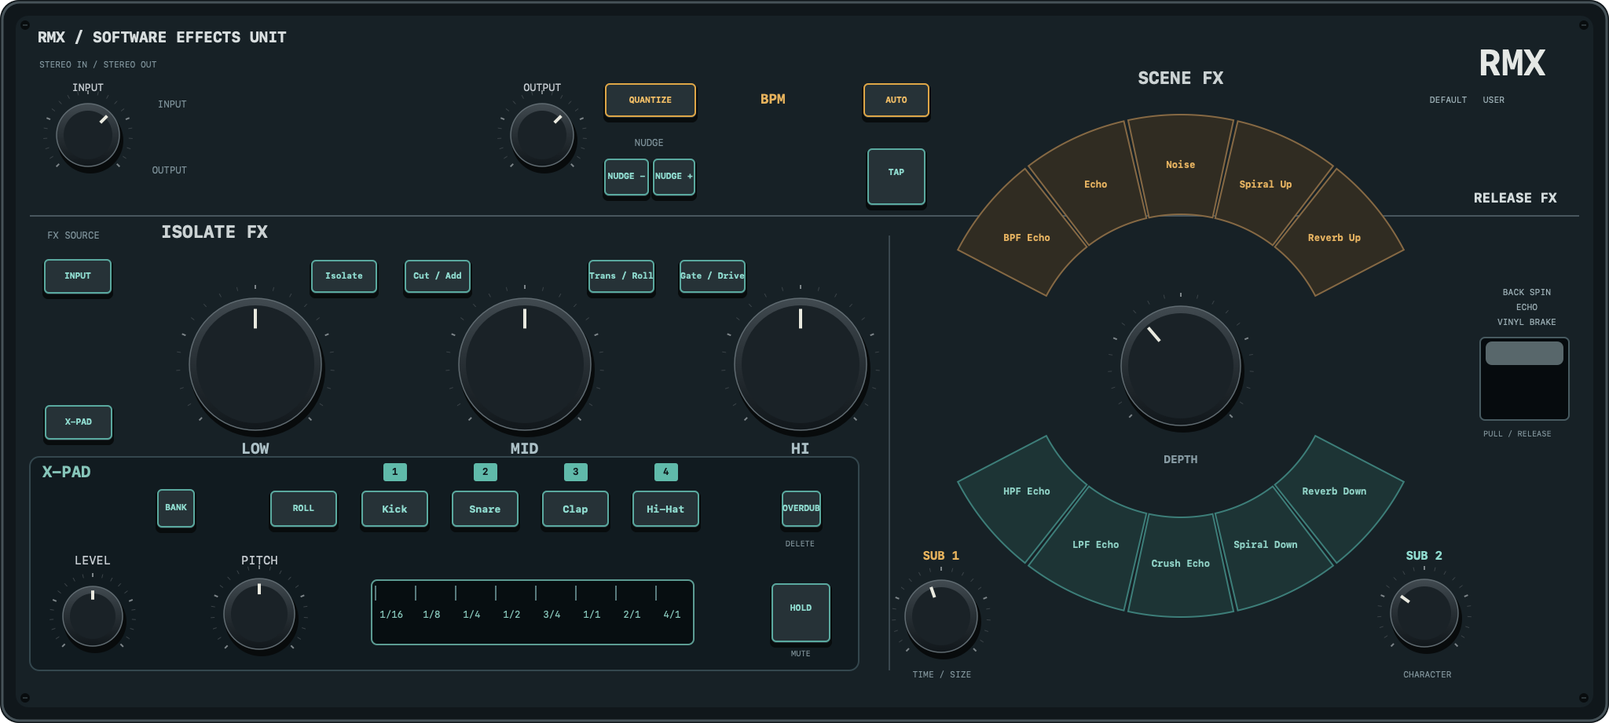
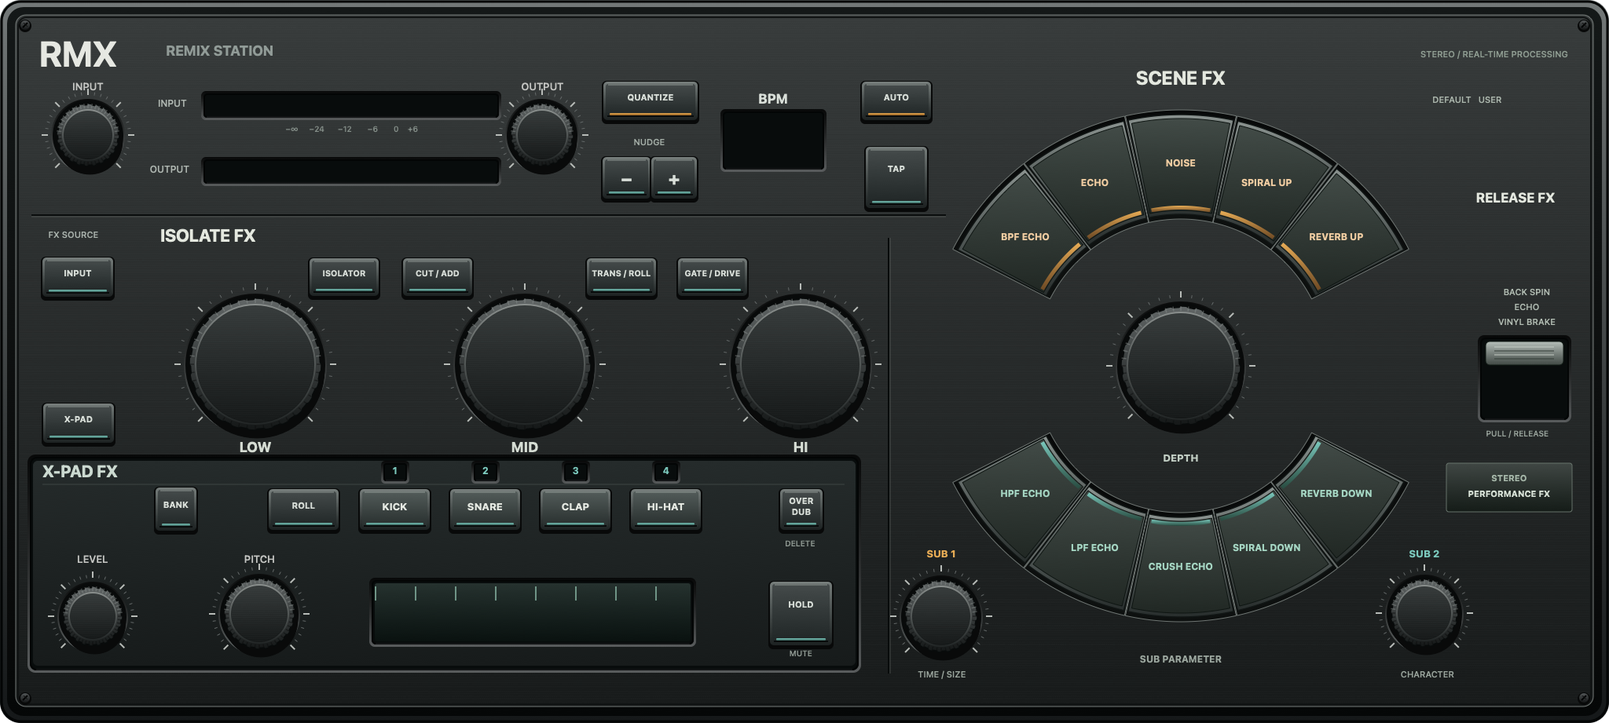
Restore hardware depth and materials across RMX editors

diff --git a/tools/generate_panel.mm b/tools/generate_panel.mm
@@ -2,86 +2,162 @@
 #include "rmx/Panel.h"
 #include <cmath>
 #include <cstdio>
+#include <cstdint>
 
+// Original panel artwork. Coordinates are shared with both interactive editors.
+// Material detail is baked once; meters, lamps and knob pointers stay dynamic.
 namespace {
 constexpr double pi=3.14159265358979323846;
+constexpr unsigned amber=0xe9ad56,teal=0x7bc9bd;
 NSColor* rgb(unsigned hex,CGFloat alpha=1) { return [NSColor colorWithCalibratedRed:((hex>>16)&255)/255. green:((hex>>8)&255)/255. blue:(hex&255)/255. alpha:alpha]; }
-void fill(NSRect r,unsigned hex,CGFloat radius=0) { [rgb(hex) setFill]; [[NSBezierPath bezierPathWithRoundedRect:r xRadius:radius yRadius:radius] fill]; }
-void stroke(NSRect r,unsigned hex,CGFloat radius=0,CGFloat width=1) { auto* p=[NSBezierPath bezierPathWithRoundedRect:r xRadius:radius yRadius:radius]; [rgb(hex) setStroke];p.lineWidth=width;[p stroke]; }
-void line(NSPoint a,NSPoint b,unsigned hex,CGFloat width=1) { auto* p=[NSBezierPath bezierPath];[p moveToPoint:a];[p lineToPoint:b];[rgb(hex) setStroke];p.lineWidth=width;[p stroke]; }
-void label(NSString* s,NSRect r,CGFloat size,unsigned hex=0xc5cbd0,bool bold=false,NSTextAlignment align=NSTextAlignmentCenter) {
-    auto* style=[NSMutableParagraphStyle new];style.alignment=align;
-    [s drawInRect:r withAttributes:@{NSFontAttributeName:[NSFont monospacedSystemFontOfSize:size weight:bold?NSFontWeightBold:NSFontWeightRegular],NSForegroundColorAttributeName:rgb(hex),NSParagraphStyleAttributeName:style}];
+NSBezierPath* rounded(NSRect r,CGFloat radius=0) { return [NSBezierPath bezierPathWithRoundedRect:r xRadius:radius yRadius:radius]; }
+void fill(NSRect r,unsigned hex,CGFloat radius=0) { [rgb(hex) setFill];[rounded(r,radius) fill]; }
+void stroke(NSRect r,unsigned hex,CGFloat radius=0,CGFloat width=1) { auto* p=rounded(r,radius);[rgb(hex) setStroke];p.lineWidth=width;[p stroke]; }
+void line(NSPoint a,NSPoint b,unsigned hex,CGFloat width=1,CGFloat alpha=1) { auto* p=[NSBezierPath bezierPath];[p moveToPoint:a];[p lineToPoint:b];[rgb(hex,alpha) setStroke];p.lineWidth=width;[p stroke]; }
+void gradient(NSBezierPath* p,unsigned top,unsigned bottom) { auto* g=[[NSGradient alloc] initWithStartingColor:rgb(top) endingColor:rgb(bottom)];[g drawInBezierPath:p angle:90]; }
+void gradient(NSRect r,unsigned top,unsigned bottom,CGFloat radius=0) { gradient(rounded(r,radius),top,bottom); }
+void outline(NSBezierPath* p,unsigned hex,CGFloat width=1) { [rgb(hex) setStroke];p.lineWidth=width;[p stroke]; }
+void label(NSString* s,NSRect r,CGFloat size,unsigned hex=0xc5c6c3,bool bold=false,NSTextAlignment align=NSTextAlignmentCenter) {
+    auto* style=[NSMutableParagraphStyle new];style.alignment=align;style.lineBreakMode=NSLineBreakByWordWrapping;
+    [s drawInRect:r withAttributes:@{NSFontAttributeName:[NSFont systemFontOfSize:size weight:bold?NSFontWeightBold:NSFontWeightMedium],NSForegroundColorAttributeName:rgb(hex),NSParagraphStyleAttributeName:style}];
 }
 NSString* string(std::string_view value) { return [[NSString alloc] initWithBytes:value.data() length:value.size() encoding:NSUTF8StringEncoding]; }
 void circle(NSRect r,unsigned hex) { [rgb(hex) setFill];[[NSBezierPath bezierPathWithOvalInRect:r] fill]; }
+void ellipse(NSRect r,unsigned top,unsigned bottom) { gradient([NSBezierPath bezierPathWithOvalInRect:r],top,bottom); }
+void recessed(NSRect r,CGFloat radius=6) {
+    gradient(NSInsetRect(r,-3,-3),0x080909,0x595c5d,radius+2);
+    fill(r,0x080c0c,radius);stroke(NSInsetRect(r,1,1),0x030505,radius,2);
+    line({r.origin.x+radius,r.origin.y+r.size.height-1},{NSMaxX(r)-radius,NSMaxY(r)-1},0x626566,1,.35);
+}
+void screw(NSPoint p) {
+    circle({p.x-8,p.y-7,16,16},0x080909);ellipse({p.x-6,p.y-6,12,12},0x535758,0x161819);
+    line({p.x-3,p.y+3},{p.x+3,p.y-3},0x020303,2);line({p.x-2,p.y-3},{p.x+3,p.y+2},0x111313,1);
+}
 void knob(const rmx::panel::Control& control) {
     const auto& r=control.rect;const CGFloat x=r.x+r.w/2,y=r.y+r.h/2,radius=r.w/2;
-    for(int i=0;i<=20;++i) {const double angle=(-225+i*13.5)*pi/180;line({x+(radius+10)*std::cos(angle),y+(radius+10)*std::sin(angle)},{x+(radius+15)*std::cos(angle),y+(radius+15)*std::sin(angle)},i%5==0?0x7d8589:0x3b4348,i%5==0?2:1);}
-    circle({r.x+3,r.y+7,r.w,r.h},0x080b0c);
-    auto* shape=[NSBezierPath bezierPathWithOvalInRect:{r.x+2,r.y+2,r.w-4,r.h-4}];
-    auto* gradient=[[NSGradient alloc] initWithStartingColor:rgb(0x414a50) endingColor:rgb(0x11171b)];[gradient drawInBezierPath:shape angle:90];
-    [rgb(0x606b71) setStroke];shape.lineWidth=1.5;[shape stroke];
-    circle({r.x+11,r.y+11,r.w-22,r.h-22},0x1a2227);
-    const auto& info=rmx::parameters[static_cast<size_t>(control.param)];
-    const double angle=(-225+270*(info.initial-info.min)/(info.max-info.min))*pi/180;
-    line({x+radius*.53*std::cos(angle),y+radius*.53*std::sin(angle)},{x+radius*.82*std::cos(angle),y+radius*.82*std::sin(angle)},0xe9e9df,4);
+    for(int i=0;i<=30;++i) {
+        const double angle=(-225+i*9)*pi/180;const bool major=i%5==0;
+        line({x+(radius+9)*std::cos(angle),y+(radius+9)*std::sin(angle)},{x+(radius+(major?17:13))*std::cos(angle),y+(radius+(major?17:13))*std::sin(angle)},major?0xb8bcb8:0x646969,major?2:1);
+    }
+    // Recessed collar and a cast shadow below the rubber grip.
+    ellipse({r.x-5,r.y-4,r.w+10,r.h+10},0x0a0b0b,0x676c6c);
+    circle({r.x-3,r.y-2,r.w+6,r.h+6},0x080a0a);
+    for(int i=9;i>0;--i) circle({r.x+i*.25,r.y+3+i*.6,r.w,r.h},0x090a0a);
+    auto* grip=[NSBezierPath bezierPath];
+    for(int i=0;i<192;++i) {
+        const double angle=i*pi/96;const double edge=radius-2+(i%8<4?0:-1.6);
+        NSPoint p={x+edge*std::cos(angle),y+edge*std::sin(angle)};
+        if(i==0)[grip moveToPoint:p];else [grip lineToPoint:p];
+    }
+    [grip closePath];gradient(grip,0x626767,0x151818);outline(grip,0x080b0b,1.5);
+    // Individual flutes catch the same overhead light as the cap.
+    for(int i=0;i<48;++i) {
+        const double angle=i*pi/24;
+        line({x+(radius-8)*std::cos(angle),y+(radius-8)*std::sin(angle)},{x+(radius-2)*std::cos(angle),y+(radius-2)*std::sin(angle)},std::sin(angle)<0?0x858b89:0x090b0b,1.5,.5);
+    }
+    ellipse({r.x+9,r.y+9,r.w-18,r.h-18},0x8a8f8d,0x222626);
+    ellipse({r.x+11,r.y+11,r.w-22,r.h-22},0x353a3a,0x141717);
+    // Fine horizontal brushing inside the cap, clipped to its circular face.
+    [NSGraphicsContext saveGraphicsState];[[NSBezierPath bezierPathWithOvalInRect:{r.x+12,r.y+12,r.w-24,r.h-24}] addClip];
+    for(CGFloat row=r.y+13;row<r.y+r.h-12;row+=1.6) line({r.x+10,row},{r.x+r.w-10,row},0xa5afaa,.5,.07);
+    [NSGraphicsContext restoreGraphicsState];
+    // The white position mark is drawn by the editors without rotating lighting.
 }
 void button(const rmx::panel::Control& c) {
-    const auto& r=c.rect;const bool amber=c.param==rmx::Param::AutoTempo||c.param==rmx::Param::Quantize;
-    fill({r.x,r.y+3,r.w,r.h},0x080c0d,7);fill({r.x+2,r.y+2,r.w-4,r.h-5},0x263237,6);stroke({r.x+3,r.y+3,r.w-6,r.h-8},amber?0xdea647:0x5aa99f,5,2);
-    NSString* title=string(c.label);
-    if(c.kind==rmx::panel::Kind::Choice) title=string(rmx::isolateNames[static_cast<size_t>(c.value)]);
-    if(c.param==rmx::Param::Overdub)title=@"OVERDUB";
+    const auto& r=c.rect;const bool amberButton=c.param==rmx::Param::AutoTempo||c.param==rmx::Param::Quantize;
+    const unsigned tint=amberButton?amber:teal;const bool pad=c.kind==rmx::panel::Kind::Pad;
+    fill({r.x-2,r.y-1,r.w+4,r.h+6},0x080909,6);
+    gradient({r.x,r.y,r.w,r.h},0x777e7c,0x1d2222,5);
+    gradient({r.x+3,r.y+3,r.w-6,r.h-7},pad?0x535c5a:0x454b4b,pad?0x282f2e:0x202626,3);
+    line({r.x+6,r.y+4},{r.x+r.w-6,r.y+4},0xb3bbb6,1,.7);
+    line({r.x+5,r.y+r.h-5},{r.x+r.w-5,r.y+r.h-5},0x080b0b,2);
+    gradient({r.x+8,r.y+r.h-9,r.w-16,3},tint,amberButton?0x8d591d:0x365d57,1);
+    NSString* title=[string(c.label) uppercaseString];
+    if(c.kind==rmx::panel::Kind::Choice) {
+        constexpr std::array<std::string_view,4> titles{"ISOLATOR","CUT / ADD","TRANS / ROLL","GATE / DRIVE"};title=string(titles[static_cast<size_t>(c.value)]);
+    }
+    if(c.param==rmx::Param::Overdub)title=@"OVER\nDUB";
     if(c.param==rmx::Param::XHold)title=@"HOLD";
-    label(title,{r.x+3,r.y+r.h*.31,r.w-6,r.h*.65},c.kind==rmx::panel::Kind::Pad?13:11,amber?0xf0bd66:0x8fdbcf,true);
+    if(c.action==7)title=c.value<0?@"−":@"+";
+    const CGFloat font=c.action==7?23:pad?13:c.kind==rmx::panel::Kind::Choice?10.5:11;
+    label(title,{r.x+4,r.y+(c.param==rmx::Param::Overdub?8:r.h*.26),r.w-8,r.h-8},font,pad?0xe5e9e2:0xd8ded8,true);
+}
+NSBezierPath* sector(double inner,double outer,double start,double end) {
+    auto* p=[NSBezierPath bezierPath];
+    for(int i=0;i<=60;++i) {const double a=(start+(end-start)*i/60)*pi/180;NSPoint point={1503+outer*std::cos(a),466+outer*std::sin(a)};if(i==0)[p moveToPoint:point];else[p lineToPoint:point];}
+    for(int i=60;i>=0;--i) {const double a=(start+(end-start)*i/60)*pi/180;[p lineToPoint:{1503+inner*std::cos(a),466+inner*std::sin(a)}];}
+    [p closePath];return p;
 }
 void art() {
-    fill({0,0,2048,921},0x10171b,24);stroke({3,3,2042,915},0x465258,22,3);
-    fill({20,20,2008,881},0x172126,16);
-    line({38,275},{2010,275},0x48565d,2);line({1132,300},{1132,854},0x3a484f,2);
-    label(@"RMX / SOFTWARE EFFECTS UNIT",{48,36,780,29},19,0xd8dedf,true,NSTextAlignmentLeft);
-    label(@"STEREO IN / STEREO OUT",{50,75,630,20},11,0x7f939b,false,NSTextAlignmentLeft);
-    label(@"INPUT",{65,103,94,21},13);label(@"OUTPUT",{638,103,105,21},13);
-    label(@"INPUT",{187,125,65,22},12,0x7f939b);label(@"OUTPUT",{180,209,72,22},12,0x7f939b);
-    label(@"BPM",{929,116,110,25},17,0xe7b35d,true);
-    label(@"NUDGE",{764,174,125,20},12,0x7f939b);
-    label(@"ISOLATE FX",{205,282,370,32},22,0xcbd2d3,true,NSTextAlignmentLeft);
-    label(@"SCENE FX",{1403,86,200,30},22,0xcbd2d3,true);
-    label(@"FX SOURCE",{36,292,115,20},12,0x7f939b);
-    label(@"LOW",{257,560,136,27},19,0xadc1c7,true);label(@"MID",{600,560,136,27},19,0xadc1c7,true);label(@"HI",{951,560,136,27},19,0xadc1c7,true);
-    fill({38,582,1055,272},0x111b20,12);stroke({38,582,1055,272},0x34474e,12,2);
-    label(@"X-PAD",{54,589,128,26},20,0x86c5b9,true,NSTextAlignmentLeft);
-    label(@"LEVEL",{68,704,100,24},15);label(@"PITCH",{278,704,105,24},15);
-    label(@"DELETE",{976,686,85,18},10,0x81949b);label(@"MUTE",{980,826,79,18},10,0x81949b);
-    label(@"SUB 1",{1140,698,116,24},15,0xe7b35d,true);label(@"SUB 2",{1755,698,116,24},15,0x8fdbcf,true);
-    label(@"TIME / SIZE",{1126,852,146,20},11,0x81949b);label(@"CHARACTER",{1744,852,146,20},11,0x81949b);
-    for(int i=0;i<4;++i) {fill({488.+i*115,590,30,23},0x60baaa,3);label([NSString stringWithFormat:@"%d",i+1],{488.+i*115,593,30,20},12,0x101a1d,true);}
+    gradient({0,0,2048,921},0x737878,0x151819,26);stroke({2,2,2044,917},0x030505,25,3);
+    gradient({9,9,2030,903},0x141818,0x050707,21);
+    gradient({20,19,2008,881},0x373b3b,0x171a1a,13);
+    stroke({20,19,2008,881},0x757b79,13,1);stroke({23,22,2002,875},0x101313,11,2);
+    // Deterministic, restrained metal grain. No per-frame texture generation.
+    [NSGraphicsContext saveGraphicsState];[rounded({25,25,1998,871},9) addClip];
+    uint32_t noise=0x524d5831;
+    for(int row=25;row<898;++row) {
+        noise=noise*1664525u+1013904223u;const CGFloat a=.004+(noise&255)/255.*.014;
+        line({25.,row+.5},{2023.,row+.5},row%3?0xffffff:0x000000,.65,a);
+    }
+    [NSGraphicsContext restoreGraphicsState];
+    // Engraved dividers and the inset sampler section.
+    line({40,274},{1204,274},0x0a0d0d,2);line({40,276},{1204,276},0x707572,1,.5);
+    line({1131,303},{1131,858},0x080b0b,2);line({1133,303},{1133,858},0x747975,1,.45);
+    recessed({38,582,1055,272},8);gradient({42,587,1047,261},0x252b2b,0x171b1b,6);
+    line({54,617},{1075,617},0x7a8580,1,.3);
+    label(@"RMX",{50,41,210,52},45,0xe6e8e2,true,NSTextAlignmentLeft);
+    label(@"REMIX STATION",{211,54,300,28},18,0x919b97,true,NSTextAlignmentLeft);
+    label(@"INPUT",{65,102,94,21},13);label(@"OUTPUT",{638,102,105,21},13);
+    label(@"INPUT",{187,124,65,22},12,0xb0b8b2);label(@"OUTPUT",{180,208,72,22},12,0xb0b8b2);
+    recessed({259,119,376,31},4);recessed({259,203,376,31},4);
+    label(@"−∞     −24      −12       −6       0    +6",{265,158,366,20},10,0x858f89);
+    recessed({920,142,129,74},4);
+    label(@"BPM",{929,116,110,25},17,0xd9dfd9,true);
+    label(@"NUDGE",{764,174,125,20},11,0xa3ada6);
+    label(@"ISOLATE FX",{204,287,370,32},22,0xe4e8df,true,NSTextAlignmentLeft);
+    label(@"SCENE FX",{1403,85,200,30},24,0xe4e8df,true);
+    label(@"FX SOURCE",{36,292,115,20},11,0xabb4ae);
+    label(@"LOW",{257,559,136,27},18,0xd6ddd4,true);label(@"MID",{600,559,136,27},18,0xd6ddd4,true);label(@"HI",{951,559,136,27},18,0xd6ddd4,true);
+    label(@"X-PAD FX",{54,588,180,27},21,0xcbd9d0,true,NSTextAlignmentLeft);
+    label(@"LEVEL",{68,704,100,24},13);label(@"PITCH",{278,704,105,24},13);
+    label(@"DELETE",{976,686,85,18},10,0x929c95);label(@"MUTE",{980,826,79,18},10,0x929c95);
+    label(@"SUB PARAMETER",{1333,832,340,25},12,0x9aa59d,true);
+    label(@"TIME / SIZE",{1126,852,146,20},11,0x9aa59d);label(@"CHARACTER",{1744,852,146,20},11,0x9aa59d);
+    label(@"SUB 1",{1140,697,116,24},13,amber,true);label(@"SUB 2",{1755,697,116,24},13,teal,true);
+    for(int i=0;i<4;++i) {recessed({488.+i*115,590,30,23},3);label([NSString stringWithFormat:@"%d",i+1],{488.+i*115,592,30,20},12,teal,true);}
+    // Broad physical button caps around a recessed ring, with separate light pipes.
+    for(int i=0;i<10;++i) {
+        const double middle=i<5?-140.4+i*25.2:140.4-(i-5)*25.2;
+        const double begin=middle-12.1,end=middle+12.1;const unsigned tint=i<5?amber:teal;
+        auto* surround=sector(187,326,begin-.4,end+.4);gradient(surround,0x070909,0x0e1110);outline(surround,0x707774,1);
+        auto* bezel=sector(193,320,begin,end);gradient(bezel,0x8b9390,0x282e2d);outline(bezel,0x111615,1.5);
+        auto* face=sector(198,315,begin+.65,end-.65);gradient(face,0x424b47,0x212824);outline(face,0x0e1512,1);
+        auto* pipe=sector(199,204,begin+1.4,end-1.4);gradient(pipe,tint,i<5?0x6d4924:0x284b40);
+        const double a=middle*pi/180;
+        label([string(rmx::sceneNames[static_cast<size_t>(i)]) uppercaseString],{1503+257*std::cos(a)-84,466+257*std::sin(a)-9,168,24},12,i<5?0xf0cca1:0xa5d6c3,true);
+    }
     for(const auto& c:rmx::panel::controls()) {
         if(c.kind==rmx::panel::Kind::Knob&&c.param!=rmx::Param::Tempo)knob(c);
         else if(c.kind==rmx::panel::Kind::Toggle||c.kind==rmx::panel::Kind::Choice||c.kind==rmx::panel::Kind::Pad||c.action==6||c.action==7||c.action==8||c.action==9) {
             if(c.param!=rmx::Param::UserSettings)button(c);
         }
     }
-    fill({473,739,410,82},0x070e11,7);stroke({473,739,410,82},0x5c9c93,7,2);
-    const auto defaults=rmx::ParameterStore{}.snapshot();
-    for(int i=0;i<8;++i) {line({478.+i*51,746},{478.+i*51,765},0x587a7d,2);label(string(rmx::xPadBeatNames[rmx::xPadBeatChoice(defaults,static_cast<float>(i))]),{475.+i*51,775,47,22},12,0x86c5b9);}
-    for(int i=0;i<10;++i) {
-        const double middle=(i<5?-140.4+i*25.2:140.4-(i-5)*25.2),begin=(middle-12.1)*pi/180,end=(middle+12.1)*pi/180;
-        auto* wedge=[NSBezierPath bezierPath];[wedge moveToPoint:{1503+193*std::cos(begin),466+193*std::sin(begin)}];
-        for(int step=0;step<=30;++step){const double a=begin+(end-begin)*step/30;[wedge lineToPoint:{1503+320*std::cos(a),466+320*std::sin(a)}];}
-        for(int step=30;step>=0;--step){const double a=begin+(end-begin)*step/30;[wedge lineToPoint:{1503+193*std::cos(a),466+193*std::sin(a)}];}[wedge closePath];
-        [rgb(i<5?0x302c22:0x1d3435) setFill];[wedge fill];[rgb(i<5?0x866944:0x3d7e79) setStroke];wedge.lineWidth=2;[wedge stroke];
-        const double a=middle*pi/180;label(string(rmx::sceneNames[static_cast<size_t>(i)]),{1503+254*std::cos(a)-91,466+254*std::sin(a)-10,182,24},12,i<5?0xe6b361:0x8fd1c5,true);
-    }
-    label(@"DEPTH",{1444,576,118,24},14,0x879ba3,true);
-    label(@"DEFAULT   USER",{1798,120,139,23},11,0x9cafb5);
-    label(@"RELEASE FX",{1848,242,162,26},17,0xd4dcdd,true);
-    label(@"BACK SPIN",{1879,365,129,20},11,0x9cafb5);label(@"ECHO",{1879,384,129,20},11,0x9cafb5);label(@"VINYL BRAKE",{1879,403,129,20},11,0x9cafb5);
-    fill({1884,430,113,105},0x060b0e,6);stroke({1884,430,113,105},0x475a60,6,2);fill({1891,435,99,30},0x58676b,8);
-    label(@"PULL / RELEASE",{1849,546,165,20},10,0x81949b);
-    label(@"RMX",{1748,52,220,56},46,0xe5e8e5,true,NSTextAlignmentRight);
-    for(NSPoint p: {NSPoint{32,32},NSPoint{2016,32},NSPoint{32,889},NSPoint{2016,889}}) {circle({p.x-6,p.y-6,12,12},0x080c0e);line({p.x-3,p.y},{p.x+3,p.y},0x526167,1);}
+    label(@"DEPTH",{1444,575,118,24},13,0xc1cdc3,true);
+    recessed({473,739,410,82},5);
+    gradient({477,743,402,74},0x26322f,0x0a1210,3);
+    for(int i=0;i<8;++i)line({478.+i*51,747},{478.+i*51,765},0x8ab8a6,1.5);
+    label(@"DEFAULT   USER",{1798,120,139,23},11,0xadb8ae);
+    label(@"RELEASE FX",{1848,242,162,26},17,0xe4e8df,true);
+    label(@"BACK SPIN",{1879,365,129,20},11,0xb1bcb2);label(@"ECHO",{1879,384,129,20},11,0xb1bcb2);label(@"VINYL BRAKE",{1879,403,129,20},11,0xb1bcb2);
+    recessed({1884,430,113,105},6);
+    gradient({1891,435,99,30},0xb6bfba,0x424a46,5);stroke({1891,435,99,30},0x121b16,5,1);
+    for(int i=0;i<4;++i)line({1902,442.+i*5},{1978,442.+i*5},i%2?0x333c36:0xc4ccc5,1);
+    label(@"PULL / RELEASE",{1849,546,165,20},10,0x9aa59d);
+    gradient({1841,590,160,62},0x404744,0x151c18,3);stroke({1841,590,160,62},0x66726a,3,1);
+    label(@"STEREO",{1854,602,134,18},11,0xa6b7a9,true);label(@"PERFORMANCE FX",{1854,622,134,17},11,0xd7e1d6,true);
+    label(@"STEREO / REAL-TIME PROCESSING",{1743,62,253,21},11,0x909e93,false,NSTextAlignmentRight);
+    for(NSPoint p:{NSPoint{32,32},NSPoint{2016,32},NSPoint{32,889},NSPoint{2016,889}})screw(p);
 }
 }
 int main(int argc,const char* argv[]) { @autoreleasepool {

diff --git a/src/macos/Main.mm b/src/macos/Main.mm
@@ -18,6 +18,14 @@ NSColor* orange() { return color(1,.43,.16); }
 NSColor* cyan() { return color(.18,.82,.87); }
 NSColor* muted() { return color(.47,.51,.56); }
 void box(NSRect r,NSColor* fill,CGFloat radius=10) { [fill setFill]; [[NSBezierPath bezierPathWithRoundedRect:r xRadius:radius yRadius:radius] fill]; }
+void hardwareSwitch(NSRect r,NSRect cap) {
+    NSGradient* rim=[[NSGradient alloc] initWithStartingColor:color(.04,.05,.045) endingColor:color(.42,.46,.43)];
+    [rim drawInBezierPath:[NSBezierPath bezierPathWithRoundedRect:NSInsetRect(r,-2,-2) xRadius:4 yRadius:4] angle:90];
+    box(r,color(.025,.035,.03),3);
+    NSGradient* face=[[NSGradient alloc] initWithStartingColor:color(.66,.71,.67) endingColor:color(.22,.27,.23)];
+    [face drawInBezierPath:[NSBezierPath bezierPathWithRoundedRect:cap xRadius:3 yRadius:3] angle:90];
+    for(int i=0;i<3;++i) box({cap.origin.x+5,cap.origin.y+8+i*5,cap.size.width-10,1},color(.12,.17,.13,.7),0);
+}
 void text(NSString* s,NSRect r,CGFloat size,NSColor* c,bool bold=false,NSTextAlignment alignment=NSTextAlignmentLeft) {
     NSMutableParagraphStyle* style=[NSMutableParagraphStyle new]; style.alignment=alignment;
     [s drawInRect:r withAttributes:@{NSFontAttributeName:bold?[NSFont boldSystemFontOfSize:size]:[NSFont systemFontOfSize:size],NSForegroundColorAttributeName:c,NSParagraphStyleAttributeName:style}];
@@ -276,18 +284,17 @@ std::filesystem::path sessionPath() {
     for(const auto& c:controls) {
         if(c.kind==Kind::Knob&&c.param!=Param::Tempo) {
             const auto& info=rmx::parameters[static_cast<size_t>(c.param)]; const float v=engine->params.get(c.param);
-            const float angle=(v-info.initial)/(info.max-info.min)*270;
-            if(std::abs(angle)>.05f) {
-                [NSGraphicsContext saveGraphicsState]; [[NSBezierPath bezierPathWithOvalInRect:c.rect] addClip];
-                NSAffineTransform* rotate=[NSAffineTransform transform]; [rotate translateXBy:NSMidX(c.rect) yBy:NSMidY(c.rect)]; [rotate rotateByDegrees:angle]; [rotate translateXBy:-NSMidX(c.rect) yBy:-NSMidY(c.rect)]; [rotate concat];
-                [panelImage drawInRect:{0,0,2048,921} fromRect:NSZeroRect operation:NSCompositingOperationSourceOver fraction:1 respectFlipped:YES hints:@{NSImageHintInterpolation:@(NSImageInterpolationHigh)}]; [NSGraphicsContext restoreGraphicsState];
-            }
+            const double angle=(-225+270*(v-info.min)/(info.max-info.min))*3.141592653589793/180;
+            const CGFloat radius=c.rect.size.width/2,x=NSMidX(c.rect),y=NSMidY(c.rect);
+            NSBezierPath* pointer=[NSBezierPath bezierPath];[pointer moveToPoint:{x+radius*.48*std::cos(angle),y+radius*.48*std::sin(angle)}];[pointer lineToPoint:{x+radius*.80*std::cos(angle),y+radius*.80*std::sin(angle)}];
+            [color(.94,.96,.89) setStroke];pointer.lineWidth=radius>60?5:3.5;pointer.lineCapStyle=NSLineCapStyleRound;[pointer stroke];
         }
         if(c.action==8) { const int source=static_cast<int>(engine->params.get(Param::SceneSource)); const bool on=source==2||source==static_cast<int>(c.value); if(!on) box(NSInsetRect(c.rect,3,3),color(0,0,0,.65),4); }
-        if(c.kind==Kind::Toggle||c.kind==Kind::Choice||c.kind==Kind::Pad) {
+        if((c.kind==Kind::Toggle||c.kind==Kind::Choice||c.kind==Kind::Pad)&&c.param!=Param::UserSettings) {
             const float v=engine->params.get(c.param); const bool on=c.kind==Kind::Toggle?v>.5f:c.kind==Kind::Choice?std::abs(v-c.value)<.01f:selectedPad==static_cast<int>(c.value);
-            if(!on) box(NSInsetRect(c.rect,3,3),color(0,0,0,.30),5);
-            else if(c.param!=Param::IsolateMode) { [NSGraphicsContext saveGraphicsState]; NSShadow* glow=[NSShadow new]; glow.shadowColor=[(c.param==Param::Quantize||c.param==Param::AutoTempo)?NSColor.redColor:color(.65,1,.1) colorWithAlphaComponent:.7]; glow.shadowBlurRadius=11; [glow set]; NSBezierPath* border=[NSBezierPath bezierPathWithRoundedRect:NSInsetRect(c.rect,3,3) xRadius:5 yRadius:5]; [[glow.shadowColor colorWithAlphaComponent:.35] setStroke]; border.lineWidth=2; [border stroke]; [NSGraphicsContext restoreGraphicsState]; }
+            const NSRect lamp={c.rect.origin.x+8,NSMaxY(c.rect)-9,c.rect.size.width-16,3};
+            if(!on) box(lamp,color(0,0,0,.75),1);
+            else { [NSGraphicsContext saveGraphicsState];NSShadow* glow=[NSShadow new];glow.shadowColor=(c.param==Param::Quantize||c.param==Param::AutoTempo)?color(1,.66,.24,.85):color(.35,.94,.76,.85);glow.shadowBlurRadius=9;[glow set];box(lamp,glow.shadowColor,1);[NSGraphicsContext restoreGraphicsState]; }
         }
     }
     if(engine->params.get(Param::AutoTempo)>.5f&&engine->meters.confidence.load()<.2f) {
@@ -316,19 +323,13 @@ std::filesystem::path sessionPath() {
     for(int i=0;i<4;++i) if(engine->params.get(Param::SampleSource)<.5f||i!=currentBank) box({488.+i*115,590,30,23},color(0,0,0,.6),3);
     const auto stripValues=engine->params.snapshot();
     for(unsigned position=0;position<8;++position) {
-        box({475.+position*51,773,47,24},color(.025,.028,.032),3);
         text(str(rmx::xPadBeatNames[rmx::xPadBeatChoice(stripValues,static_cast<float>(position))]),{475.+position*51,775,47,20},14,cyan(),true,NSTextAlignmentCenter);
     }
     if(dragging>=0&&controls[static_cast<size_t>(dragging)].kind==Kind::Strip) { const int division=static_cast<int>(engine->params.get(Param::XRoll)); box({475.+division*51,742,47,76},color(.55,.73,1,.22),4); }
     const float lever=engine->params.get(Param::ReleaseAmount);
-    if(lever>.005f) { box({1884,430,113,105},color(.015,.015,.015),4); NSGradient* gradient=[[NSGradient alloc] initWithStartingColor:color(.25,.25,.25) endingColor:color(.045,.045,.045)]; NSBezierPath* handle=[NSBezierPath bezierPathWithRoundedRect:{1891,435+lever*62,99,30} xRadius:10 yRadius:10]; [gradient drawInBezierPath:handle angle:90]; }
-    const int releaseType=static_cast<int>(engine->params.get(Param::ReleaseType)); box({1903,301,61,47},color(.025,.025,.025),4); box({1908+(2-releaseType)*17.,307,15,34},color(.18,.18,.18),2);
-    box({1831,151,69,43},color(.025,.025,.025),3); box({1836+engine->params.get(Param::UserSettings)*29,156,29,33},color(.18,.18,.18),2);
-    box({1690,50,295,63},color(.025,.025,.025),8);
-    text(@"RMX",{1748,52,220,56},46,color(.85,.87,.87),true,NSTextAlignmentRight);
-    box({1828,578,185,76},color(.035,.035,.035),3);
-    text(@"PERFORMANCE FX",{1836,584,167,21},16,color(.7,.73,.74),true);
-    text(@"RMX",{1834,608,169,43},34,color(.9,.92,.92),true);
+    hardwareSwitch({1884,430,113,105},{1891,435+lever*62,99,30});
+    const int releaseType=static_cast<int>(engine->params.get(Param::ReleaseType));hardwareSwitch({1903,301,61,47},{1908+(2-releaseType)*17.,307,15,34});
+    hardwareSwitch({1831,151,69,43},{1836+engine->params.get(Param::UserSettings)*29,156,29,33});
     [NSGraphicsContext restoreGraphicsState];
 }
 - (NSPoint)surfacePoint:(NSEvent*)event {

diff --git a/src/plugin/HardwareEditor.h b/src/plugin/HardwareEditor.h
@@ -28,13 +28,15 @@ public:
         for(const auto& c:controls) {
             auto r=rect(c.rect);
             if(c.kind==Kind::Knob&&c.param!=Param::Tempo) {
-                const auto& info=rmx::parameters[static_cast<size_t>(c.param)]; const float angle=(value(c.param)-info.initial)/(info.max-info.min)*juce::MathConstants<float>::pi*1.5f;
-                if(std::abs(angle)>.001f) { g.saveState(); juce::Path clip; clip.addEllipse(r); g.reduceClipRegion(clip); g.addTransform(juce::AffineTransform::rotation(angle,r.getCentreX(),r.getCentreY())); g.drawImage(skin,juce::Rectangle<float>(0,0,2048,921)); g.restoreState(); }
+                const auto& info=rmx::parameters[static_cast<size_t>(c.param)];const float angle=(-225+270*(value(c.param)-info.min)/(info.max-info.min))*juce::MathConstants<float>::pi/180;
+                const float radius=r.getWidth()/2,x=r.getCentreX(),y=r.getCentreY();
+                g.setColour(juce::Colour(0xffeff5e3));g.drawLine(x+radius*.48f*std::cos(angle),y+radius*.48f*std::sin(angle),x+radius*.80f*std::cos(angle),y+radius*.80f*std::sin(angle),radius>60?5.f:3.5f);
             }
             if(c.action==8) { const int source=static_cast<int>(value(Param::SceneSource)); const bool on=source==2||source==static_cast<int>(c.value); if(!on) { g.setColour(juce::Colours::black.withAlpha(.65f)); g.fillRoundedRectangle(r.reduced(3),4); } }
-            if(c.kind==Kind::Toggle||c.kind==Kind::Choice||c.kind==Kind::Pad) {
+            if((c.kind==Kind::Toggle||c.kind==Kind::Choice||c.kind==Kind::Pad)&&c.param!=Param::UserSettings) {
                 const bool on=c.kind==Kind::Toggle?value(c.param)>.5f:c.kind==Kind::Choice?std::abs(value(c.param)-c.value)<.01f:selectedPad==static_cast<int>(c.value);
-                if(!on) { g.setColour(juce::Colours::black.withAlpha(.30f)); g.fillRoundedRectangle(r.reduced(3),5); }
+                const juce::Rectangle<float> lamp{r.getX()+8,r.getBottom()-9,r.getWidth()-16,3};
+                g.setColour(on?(c.param==Param::Quantize||c.param==Param::AutoTempo?juce::Colour(0xffffa83d):juce::Colour(0xff59efc2)):juce::Colour(0xff13251e));g.fillRoundedRectangle(lamp,1);
             }
         }
         if(value(Param::SceneOn)>.5f) {
@@ -58,15 +60,12 @@ public:
         const auto stripValues=processor.engine.params.snapshot();
         for(unsigned position=0;position<8;++position) {
             const float x=475.f+position*51;
-            g.setColour(juce::Colour(0xff060708));g.fillRoundedRectangle(x,773,47,24,3);
             g.setColour(juce::Colour(0xff2ed1de));g.setFont(juce::Font(juce::FontOptions(14).withStyle("Bold")));
             g.drawText(juce::String(rmx::xPadBeatNames[rmx::xPadBeatChoice(stripValues,static_cast<float>(position))].data()),static_cast<int>(x),775,47,20,juce::Justification::centred);
         }
-        if(value(Param::ReleaseAmount)>.005f) { g.setColour(juce::Colour(0xff040404)); g.fillRoundedRectangle(1884,430,113,105,4); g.setGradientFill(juce::ColourGradient(juce::Colour(0xff555555),0,435,juce::Colour(0xff101010),0,465,false)); g.fillRoundedRectangle(1891,435+value(Param::ReleaseAmount)*62,99,30,10); }
-        g.setColour(juce::Colour(0xff060606)); g.fillRoundedRectangle(1903,301,61,47,4); g.setColour(juce::Colour(0xff303030)); g.fillRoundedRectangle(1908+(2-value(Param::ReleaseType))*17,307,15,34,2);
-        g.setColour(juce::Colour(0xff060606)); g.fillRoundedRectangle(1831,151,69,43,3); g.setColour(juce::Colour(0xff303030)); g.fillRoundedRectangle(1836+value(Param::UserSettings)*29,156,29,33,2);
-        g.setColour(juce::Colour(0xff060606)); g.fillRoundedRectangle(1690,50,295,63,8); g.setColour(juce::Colour(0xffdde0e0)); g.setFont(juce::Font(juce::FontOptions(46).withStyle("Bold"))); g.drawText("RMX",1748,52,220,56,juce::Justification::centredRight);
-        g.setColour(juce::Colour(0xff090909)); g.fillRoundedRectangle(1828,578,185,76,3); g.setColour(juce::Colour(0xffbbc1c1)); g.setFont(juce::Font(juce::FontOptions(16).withStyle("Bold"))); g.drawText("PERFORMANCE FX",1836,584,167,21,juce::Justification::centredLeft); g.setFont(juce::Font(juce::FontOptions(34).withStyle("Bold"))); g.drawText("RMX",1834,608,169,43,juce::Justification::centredLeft);
+        hardwareSwitch(g,{1884,430,113,105},{1891,435+value(Param::ReleaseAmount)*62,99,30});
+        hardwareSwitch(g,{1903,301,61,47},{1908+(2-value(Param::ReleaseType))*17,307,15,34});
+        hardwareSwitch(g,{1831,151,69,43},{1836+value(Param::UserSettings)*29,156,29,33});
     }
     void mouseDown(const juce::MouseEvent& event) override {
         grabKeyboardFocus(); auto pos=point(event);
@@ -102,6 +101,12 @@ public:
         if(c=='t'||c=='T') { processor.engine.enqueue({rmx::EventType::Tap}); return true; } return false;
     }
 private:
+    static void hardwareSwitch(juce::Graphics& g,juce::Rectangle<float> r,juce::Rectangle<float> cap) {
+        g.setGradientFill(juce::ColourGradient(juce::Colour(0xff0a0d0b),0,r.getY(),juce::Colour(0xff6b756e),0,r.getBottom(),false));g.fillRoundedRectangle(r.expanded(2),4);
+        g.setColour(juce::Colour(0xff060908));g.fillRoundedRectangle(r,3);
+        g.setGradientFill(juce::ColourGradient(juce::Colour(0xffa8b5ab),0,cap.getY(),juce::Colour(0xff38453b),0,cap.getBottom(),false));g.fillRoundedRectangle(cap,3);
+        g.setColour(juce::Colour(0xb31f2b21));for(int i=0;i<3;++i)g.fillRect(cap.getX()+5,cap.getY()+8+i*5,cap.getWidth()-10,1.f);
+    }
     static juce::Rectangle<float> rect(rmx::panel::Rect r) { return {r.x,r.y,r.w,r.h}; }
     juce::Point<float> point(const juce::MouseEvent& e) const { return {e.position.x*2048/getWidth(),e.position.y*921/getHeight()}; }
     float value(Param p) const { return processor.tree.getRawParameterValue(js(rmx::parameters[static_cast<size_t>(p)].id))->load(); }
